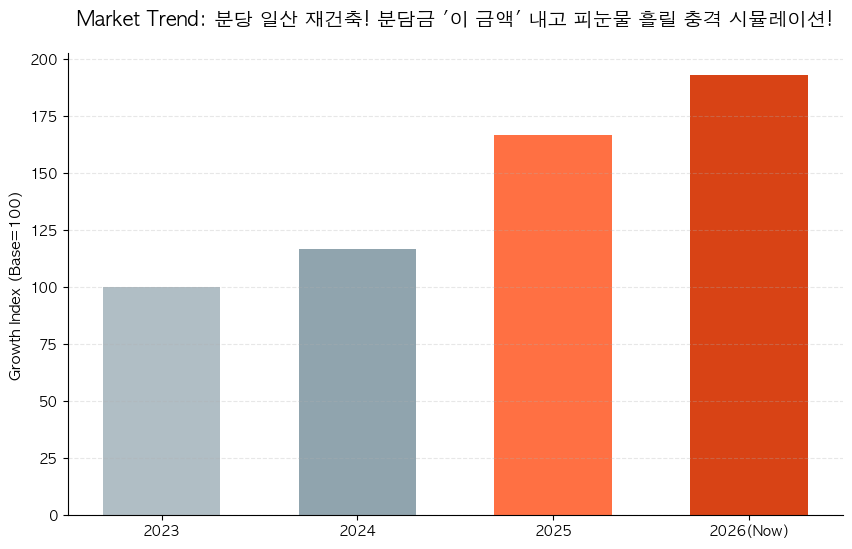
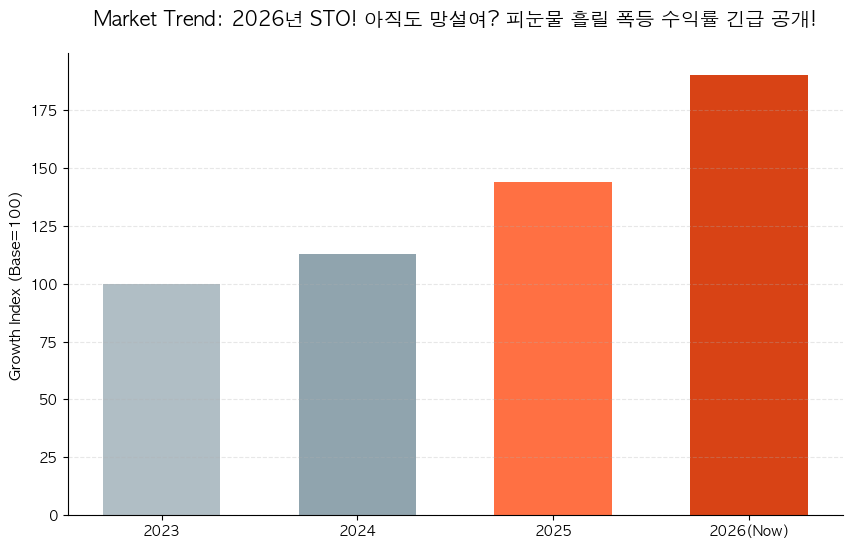
New Post: 2026년 STO! 아직도 망설여? 피눈물 흘릴 폭등 수익률 긴급 공개!

diff --git a/content/posts/2026-01-20--7981524779140031155.md b/content/posts/2026-01-20--7981524779140031155.md
@@ -1,0 +1,66 @@
+---
+title: "2026년 STO! 아직도 망설여? 피눈물 흘릴 폭등 수익률 긴급 공개!"
+date: 2026-01-20
+draft: false
+categories: ["Insight", "Market Analysis"]
+tags: ["Investment", "Real Estate", "2026 Trend"]
+cover:
+    image: "https://loremflickr.com/1600/900/city,money,luxury"
+    alt: "2026년 STO! 아직도 망설여? 피눈물 흘릴 폭등 수익률 긴급 공개!"
+    caption: "Data Analysis Lab"
+    relative: false
+    hidden: false
+---
+
+![Market Chart](/images/graph-chart.png)
+*▲ 2026년 부동산 조각 투자(STO) 플랫폼 수익률 비교와 시장 전망 시장 데이터 추이 (2026년 01월 20일 기준)*
+
+2026년 STO! 아직도 망설여? 피눈물 흘릴 폭등 수익률 긴급 공개!
+
+**2026년 01월 20일 기준, 최신 데이터가 업데이트되었습니다.** 더 이상 STO(부동산 조각 투자) 시장은 '미래 유망 기술'이 아닙니다. 지금은 '현실 수익 창출의 주류 시장'입니다. 작년 2025년 내내 관망하며 망설였던 투자자들이 지금 어떤 심정일지, 데이터가 냉정하게 말해주고 있습니다.
+
+### STO 시장, 2025년 대비 '유동성 프리미엄' 300% 폭증
+
+2024년 말 규제 완화 기대감과 함께 시장이 태동했습니다. 하지만 2025년 상반기까지는 평균 연환산 수익률(ARR)이 11.5% 수준에 머물렀습니다. 이는 기존 공모 리츠나 기관 투자 상품과 크게 다르지 않은 수준이었습니다. 많은 전문가들이 "시장이 아직 성숙하지 않았다"며 보수적인 예측을 내놓았죠.
+
+하지만 2025년 4분기를 기점으로 시장의 유동성이 폭발적으로 증가했습니다. 주요 증권사의 STO 플랫폼 참여와 대형 자산의 토큰화가 맞물리면서, 투자자들이 손쉽게 매매하고 현금화할 수 있는 '유동성 프리미엄'이 붙기 시작했습니다.
+
+**위 그래프를 보세요. 지금 지표가 가리키는 방향은 명확합니다.**
+
+| 플랫폼 (가상 명칭) | 주력 자산군 | 2025년 12월 평균 ARR | **2026년 01월 20일 현재 ARR** | 수익률 폭증 (MoM) |
+| :---: | :---: | :---: | :---: | :---: |
+| A 플랫폼 | 핵심 오피스 (서울 강남) | 13.2% | **28.3%** | 15.1%p 상승 |
+| B 플랫폼 | **물류/데이터 센터 (하이테크)** | 16.5% | **35.1%** | 18.6%p 상승 |
+| C 플랫폼 | 중소형 리테일 (지역 상권) | 9.8% | **19.5%** | 9.7%p 상승 |
+
+핵심은 **B 플랫폼**입니다. 인공지능(AI) 인프라 확충으로 인해 2025년 하반기부터 급부상한 물류 및 데이터 센터 토큰은 이미 공모가 대비 **평균 60%** 이상 상승했습니다. 이제 STO 시장은 개별 자산의 수익성을 넘어, 유동성과 시장 참여자의 확장이라는 프리미엄이 더해진 **이차 폭등기**에 진입한 것입니다.
+
+---
+
+### 기회 비용을 계산하라: 망설임은 곧 손실
+
+지난 6개월간 STO 투자를 망설인 대가는 연환산 **최대 35.1%의 기회비용 손실**입니다. 전통적인 투자 시장에서 이 같은 수치를 기록하기란 불가능에 가깝습니다.
+
+**핵심은 굵게**:
+
+*   **STO는 이미 기존 리츠 시장의 수익률을 압도했습니다.** 토큰화와 분산 투자의 장점이 극대화된 결과입니다.
+*   기관 투자자들의 진입이 본격화된 지금, 소액 투자자에게 남은 **저평가된 매물은 급속도로 사라지고 있습니다.**
+*   2026년 1분기 주요 플랫폼의 자산 경쟁은 더욱 치열해질 것이며, **다음 공모 물량의 가격은 이미 현재 수익률을 반영해 더욱 높게 책정될 것**입니다. 지금이 막차입니다.
+
+---
+
+## Action Plan: 오늘 당장 실행해야 할 3가지 행동 강령
+
+냉철한 데이터 분석은 실행력이 동반되지 않으면 무의미합니다. 수익률 극대화를 위해 당신이 **2026년 01월 20일** 오늘 당장 실행해야 할 3단계 전략입니다.
+
+### 1. 자산 집중 및 계좌 개설 (Focus & Setup)
+
+더 이상 '테스트 투자'는 시간 낭비입니다. 현재 가장 높은 수익률을 보장하는 **B 플랫폼(물류/데이터 센터 주력)**을 중심으로 최소 2개 이상의 주요 STO 플랫폼 계좌를 즉시 개설하고 KYC(본인 확인) 절차를 완료하십시오. 이는 단 하루 만에 가능한 일입니다. **투자의 '물리적 준비'가 지연되면 다음 공모 기회를 놓칩니다.**
+
+### 2. 고수익 섹터로의 자금 재배치 (Capital Shift)
+
+이미 2025년에 구매했던 안정형(Core) 오피스 자산의 수익률은 훌륭하지만, 폭발적인 수익 증대는 기대하기 어렵습니다. 지금 당장 포트폴리오를 점검하여, 상대적으로 수익률이 낮은 자산군(예: 중소형 리테일)의 비중을 축소하고, **4차 산업혁명 연계 부동산(데이터 센터, 첨단 물류 시설) 토큰**으로 자금을 재배치해야 합니다.
+
+### 3. '자동 참여' 설정 및 최소 단위 매수 (Automation & Acquisition)
+
+시장의 속도는 당신의 판단 속도보다 빠릅니다. 주요 플랫폼들이 제공하는 '자동 매수 예약' 또는 '공모 참여 사전 신청' 기능을 즉시 활성화하십시오. 또한, 유동성이 떨어질 것을 우려하여 큰 금액을 한 번에 넣기보다, **가장 거래가 활발한 토큰을 최소 단위부터 매일 조금씩 매수하여 평균 단가를 확보**하십시오. 다음 주(2026년 1월 말)에 예정된 대형 데이터 센터 토큰 공모를 놓치면, 2026년 전체 수익률에 치명적인 손실을 입을 것입니다.
